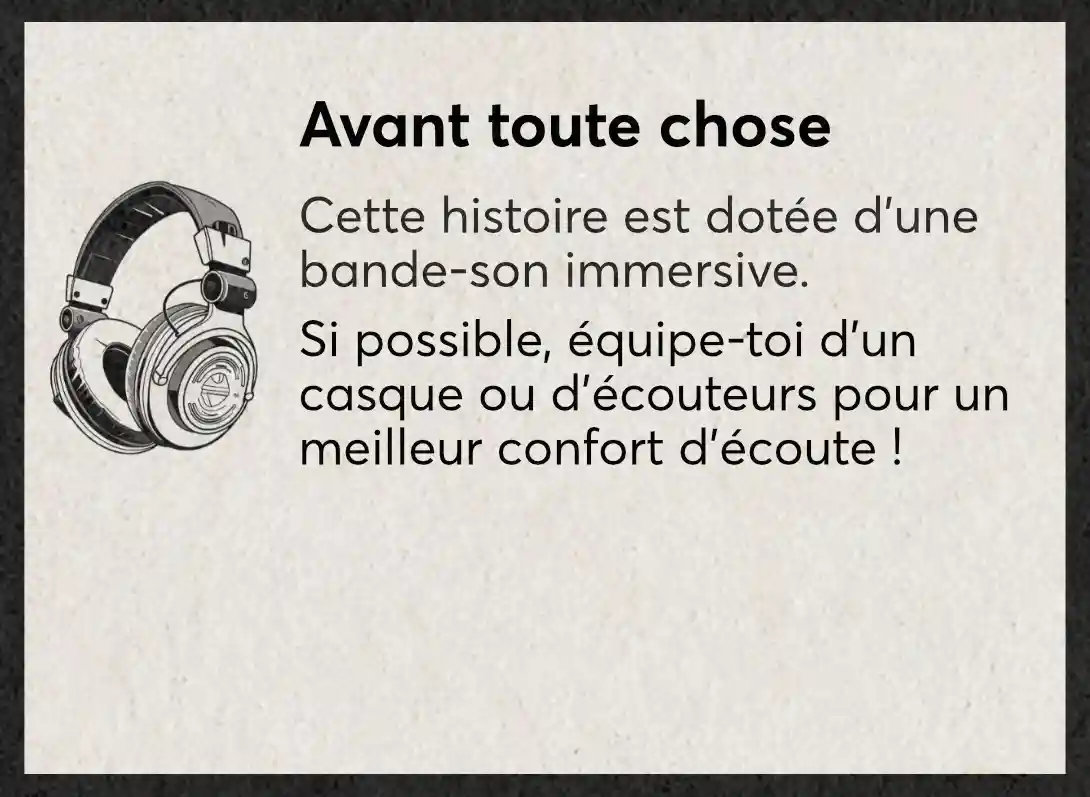
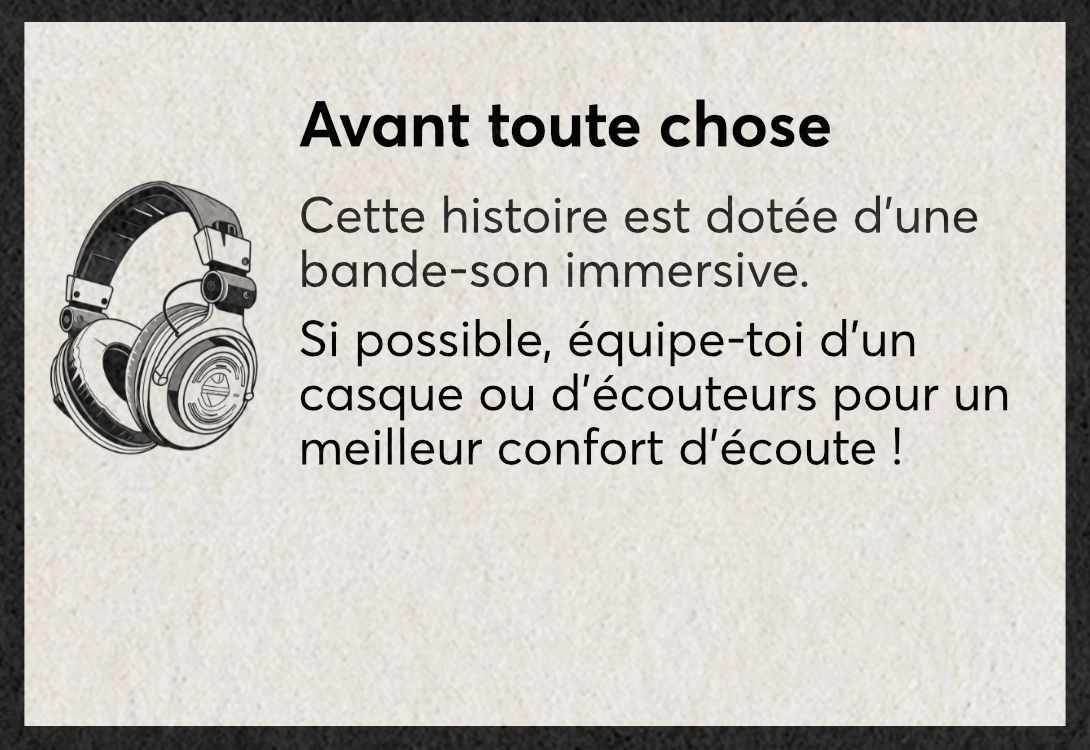
fix: modal

Changed region(s): [[0.0312, 0.2147, 0.9358, 0.644], [0.2807, 0.1227, 0.7798, 0.2147], [0.0312, 0.9507, 0.967, 0.9813]]

diff --git a/src/app/[book]/[chapter]/page.tsx b/src/app/[book]/[chapter]/page.tsx
@@ -117,20 +117,22 @@ const Chapter = ({
           onClick={onExit}
         />
       </div>
-      <Modal
-        top={40}
-        width={93}
-        height={93 * (738 / 1090)}
-        backgroundSource="modal.webp"
-        isVisible={true}
-      >
-        <Button
-          top={46}
-          width={60}
-          onClick={modalClickHandler}
-          text="Activer le son"
-        />
-      </Modal>
+      <div className="absolute top-0 left-0 w-full h-full flex justify-center align-center" style={{zIndex: 4000}}>
+        <Modal
+          top={40}
+          width={93}
+          height={93 * (752 / 1090)}
+          backgroundSource="modal.webp"
+          isVisible={true}
+        >
+          <Button
+            top={46}
+            width={60}
+            onClick={modalClickHandler}
+            text="Activer le son"
+          />
+        </Modal>
+        </div>
     </main>
   );
 };

diff --git a/src/app/components/Modal.tsx b/src/app/components/Modal.tsx
@@ -45,9 +45,8 @@ const Modal = ({
       className="modal"
       onClick={onClick}
       style={{
-        position: 'absolute',
+        position: 'relative',
         top: dimensions?.top,
-        left: dimensions?.left,
         width: dimensions?.width,
         height: dimensions?.height,
         backgroundImage: `url(/images/${backgroundSource})`,
